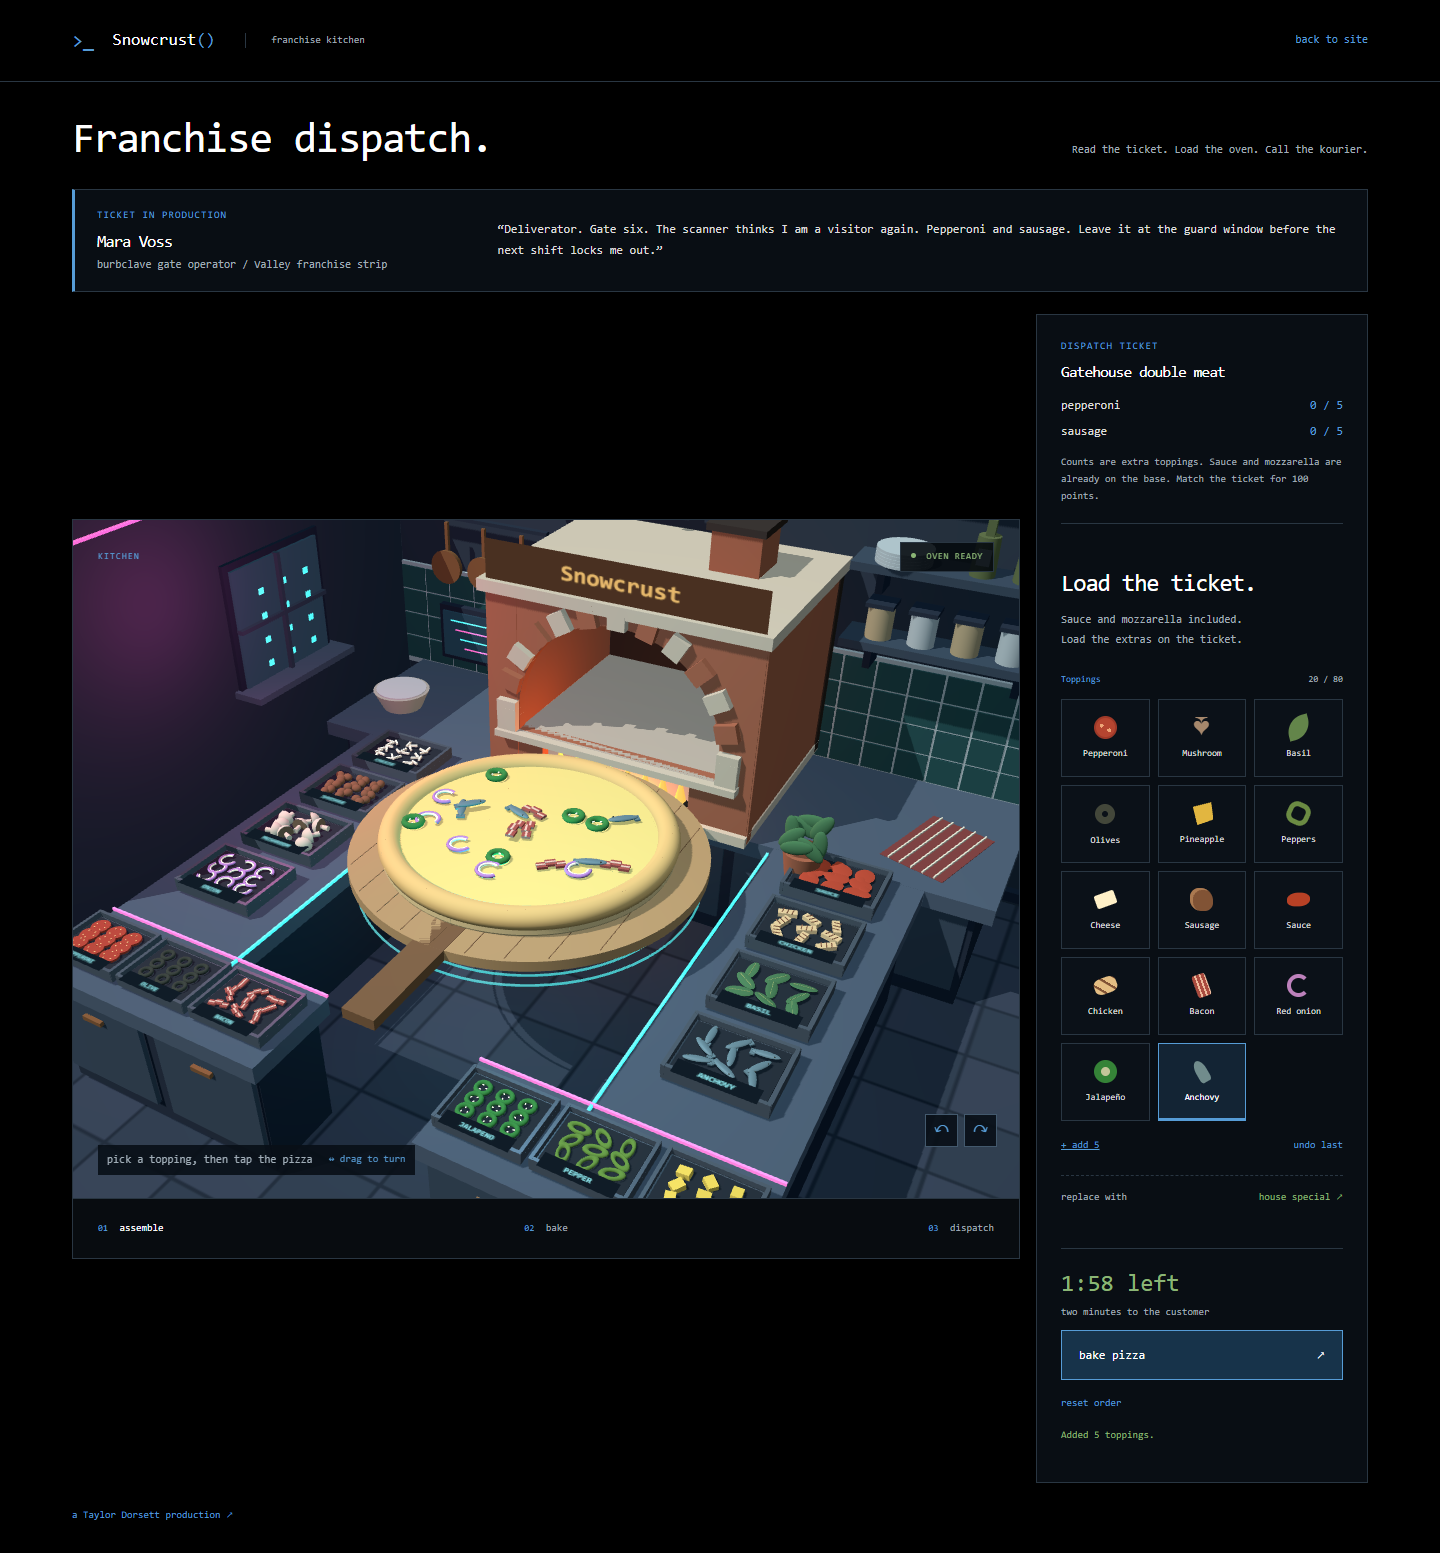
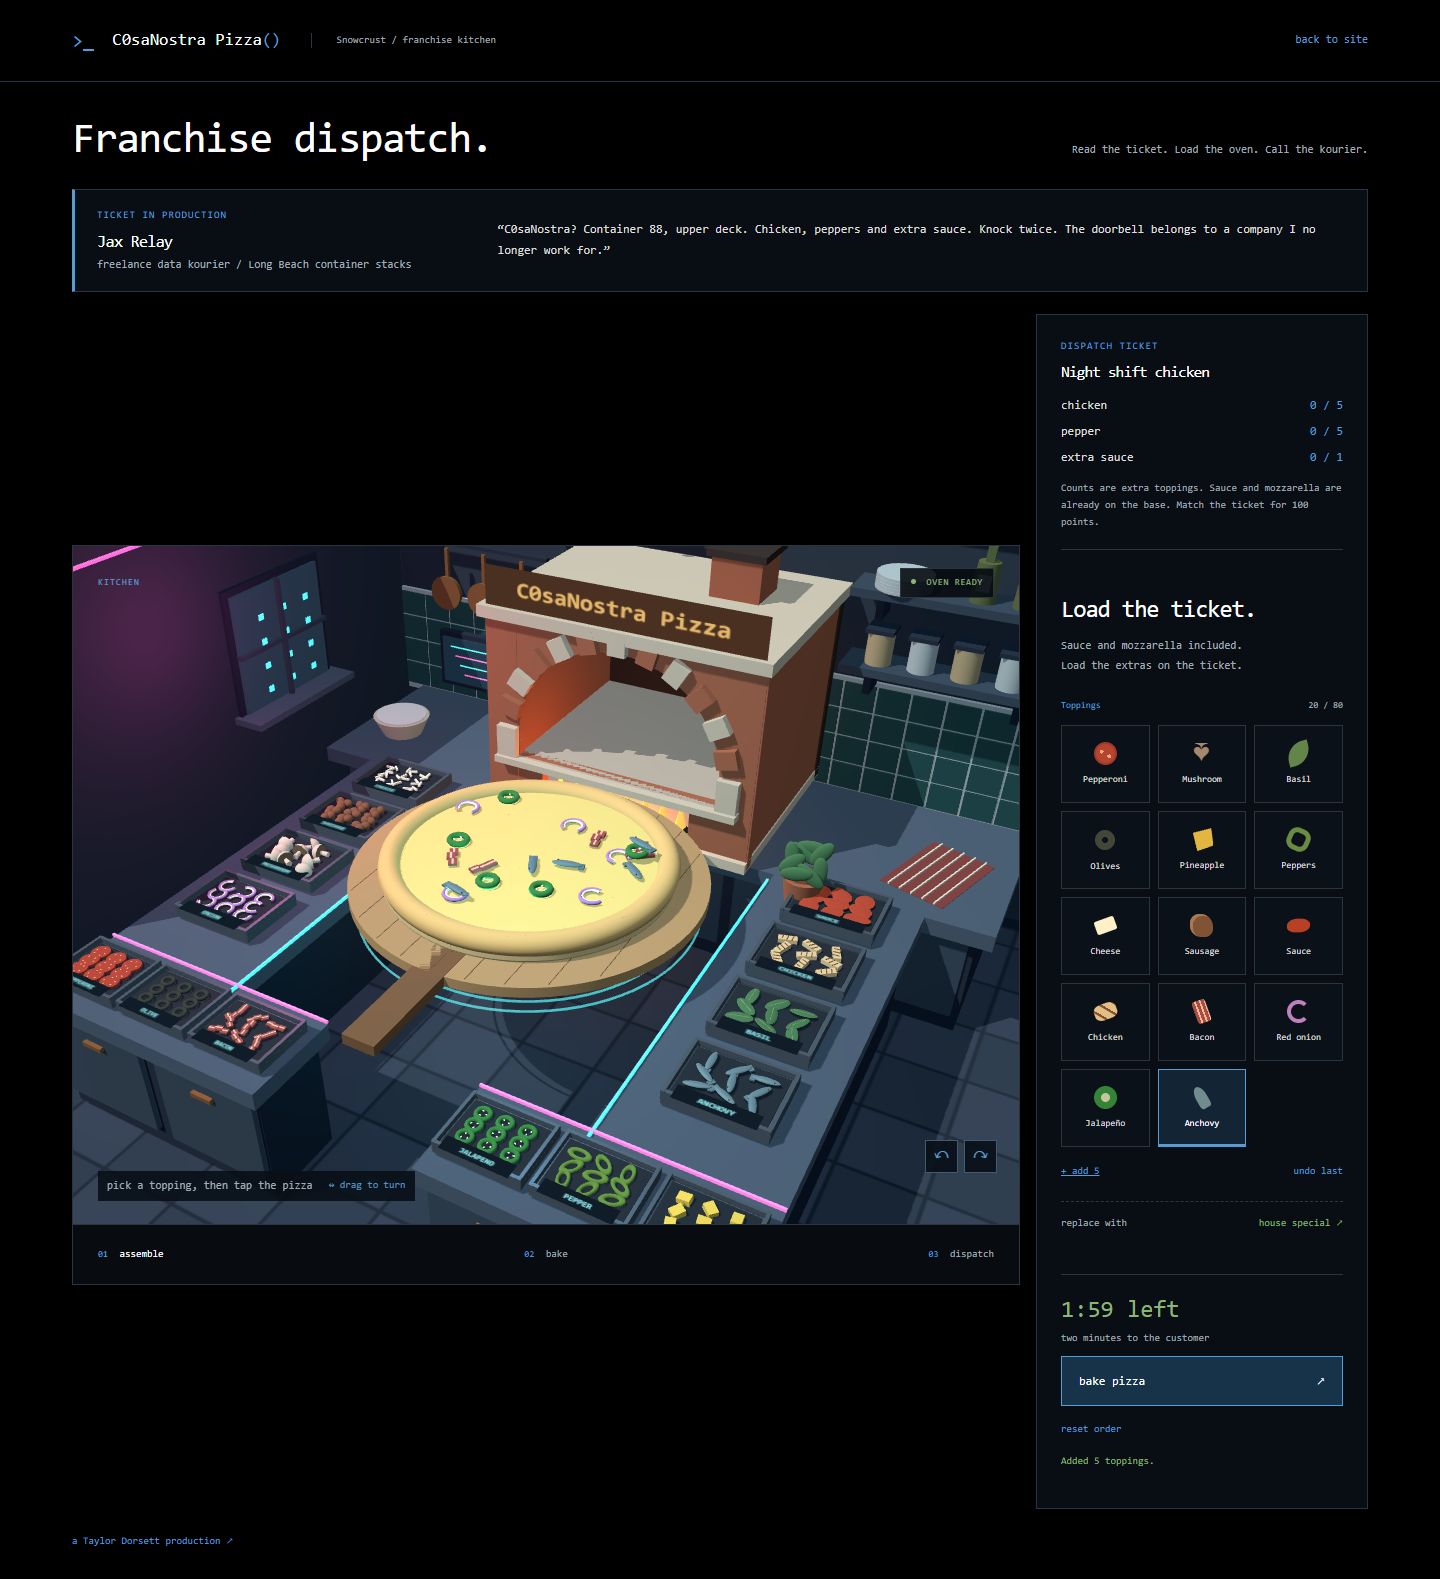
use the franchise name

diff --git a/orders.js b/orders.js
@@ -40,7 +40,7 @@ export const customers = [
     job: 'private road signal tech',
     neighborhood: 'Valley burbclave perimeter',
     pizza: 'Perimeter heat',
-    call: 'Snowcrust. Signal cabinet nine. Bacon, red onion and jalapeños. The light is stuck on red. Your kourier can use the service lane.',
+    call: 'C0saNostra. Signal cabinet nine. Bacon, red onion and jalapeños. The light is stuck on red. Your kourier can use the service lane.',
     toppings: { bacon: 5, onion: 5, jalapeno: 5 }
   },
   {
